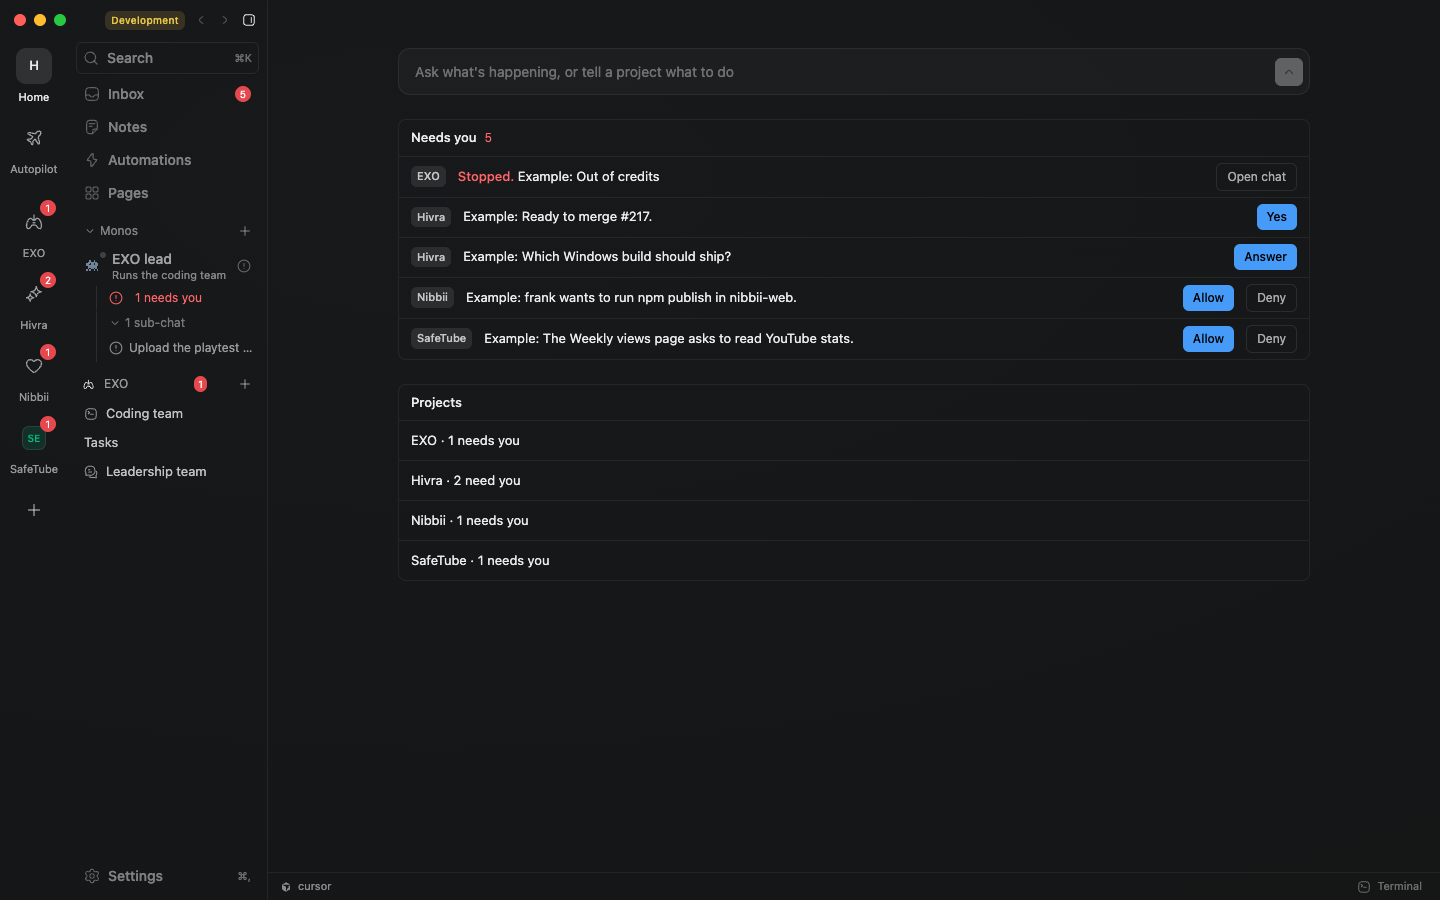
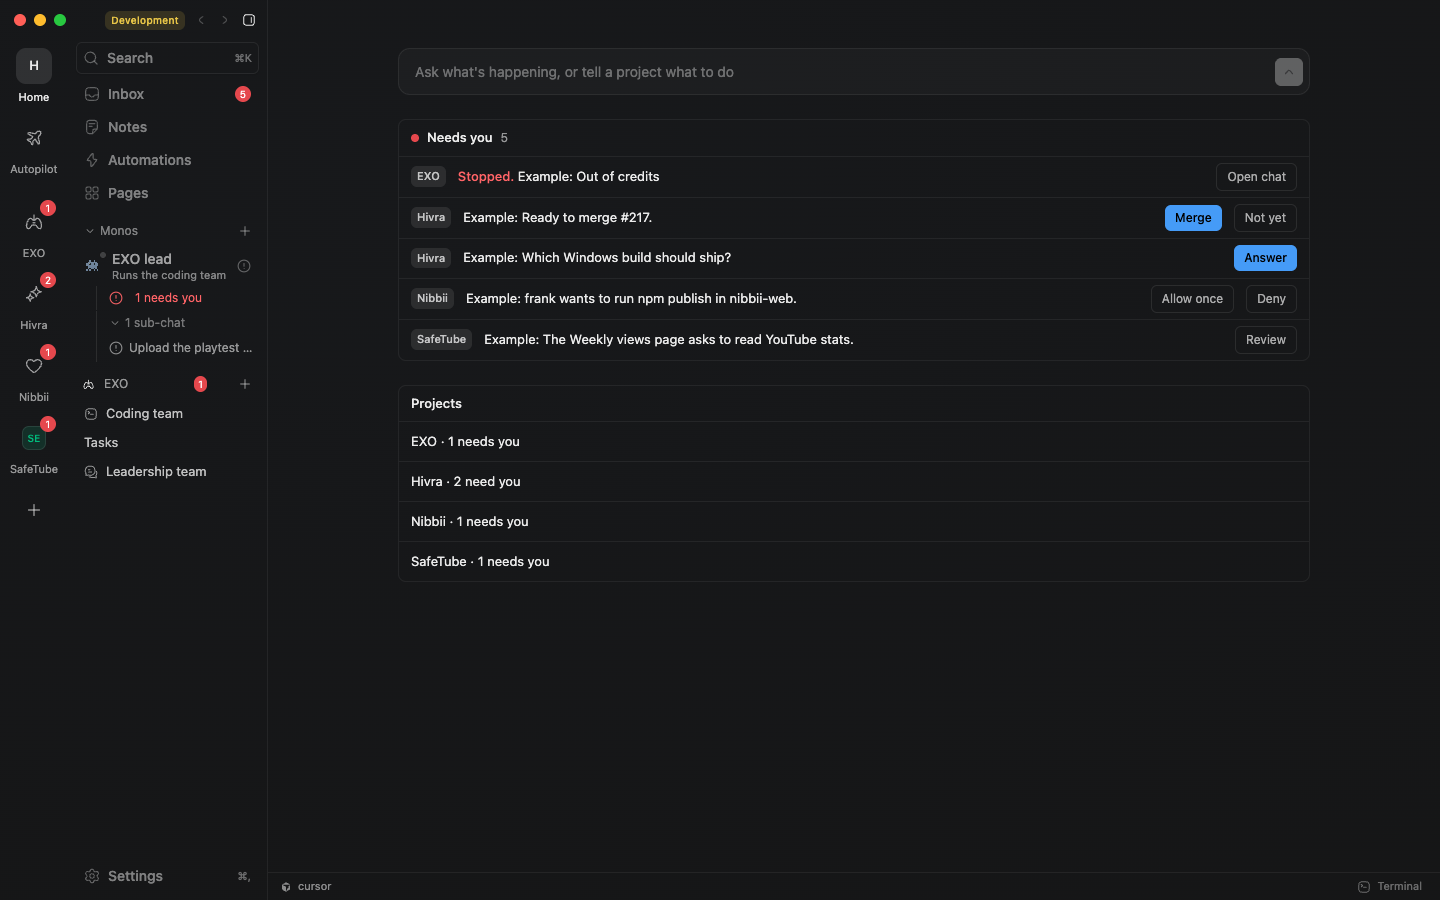
Check the new Needs you buttons in the browser
The spec checks Allow once, Review, Merge and Not yet, the red dot, and the Mono panel buttons.

diff --git a/tests/browser/wp210-one-needs-list.spec.ts b/tests/browser/wp210-one-needs-list.spec.ts
@@ -221,6 +221,31 @@ test("rail, home, header, mono line and inbox share one Needs you list", async (
   await expect(deny).not.toHaveClass(/bg-accent/);
   await expect(deny).not.toHaveClass(/primary-action/);
   expect(Number.parseFloat(await deny.evaluate((el) => getComputedStyle(el).borderTopWidth))).toBeGreaterThan(0);
+  const bordered = async (button: Locator) => {
+    await expect(button).not.toHaveClass(/bg-accent/);
+    expect(Number.parseFloat(await button.evaluate((el) => getComputedStyle(el).borderTopWidth))).toBeGreaterThan(0);
+  };
+  const publish = needs.locator("[data-home-line]").filter({ hasText: "npm publish" });
+  const allowOnce = publish.getByRole("button", { name: "Allow once" });
+  await expect(allowOnce).toHaveCount(1);
+  await bordered(allowOnce);
+  await bordered(publish.getByRole("button", { name: "Deny" }));
+  const weekly = needs.locator("[data-home-line]").filter({ hasText: "Weekly views" });
+  const review = weekly.getByRole("button", { name: "Review" });
+  await expect(review).toHaveCount(1);
+  await expect(weekly.getByRole("button", { name: "Allow", exact: true })).toHaveCount(0);
+  await expect(weekly.getByRole("button", { name: "Deny" })).toHaveCount(0);
+  await bordered(review);
+  const mergeRow = needs.locator("[data-home-line]").filter({ hasText: "Ready to merge" });
+  await expect(mergeRow.getByRole("button", { name: "Merge", exact: true })).toHaveClass(/bg-accent/);
+  await bordered(mergeRow.getByRole("button", { name: "Not yet" }));
+  await expect(mergeRow.getByRole("button", { name: "Yes", exact: true })).toHaveCount(0);
+  const dot = needs.locator("[data-home-needs-dot]");
+  await expect(dot).toHaveCount(1);
+  await expect(dot).toHaveCSS("background-color", "rgb(229, 72, 77)");
+  const count = needs.locator("[data-home-needs-count]");
+  await expect(count).not.toHaveCSS("color", "rgb(229, 72, 77)");
+  await expect(count).not.toHaveClass(/text-red/);
   const rowCount = await needs.locator("[data-home-line]").count();
   for (let i = 0; i < rowCount; i++) {
     expect(await needs.locator("[data-home-line]").nth(i).innerText()).toContain("Example:");
@@ -259,6 +284,10 @@ test("rail, home, header, mono line and inbox share one Needs you list", async (
   const chipWord = panel.locator("[data-hub-chip]");
   await expect(chipWord).toHaveText("Needs you");
   await expect(chipWord).toHaveCSS("color", "rgb(255, 107, 107)");
+  const panelOpen = panel.getByRole("button", { name: "Open EXO lead's chat" });
+  const dismiss = panel.getByRole("button", { name: "Dismiss" });
+  await bordered(panelOpen);
+  await bordered(dismiss);
   if (shoot) await page.screenshot({ path: `${AFTER}/mono.png` });
 
   await page.locator("[data-hub-home]").getByRole("button", { name: "Home" }).click({ force: true });
